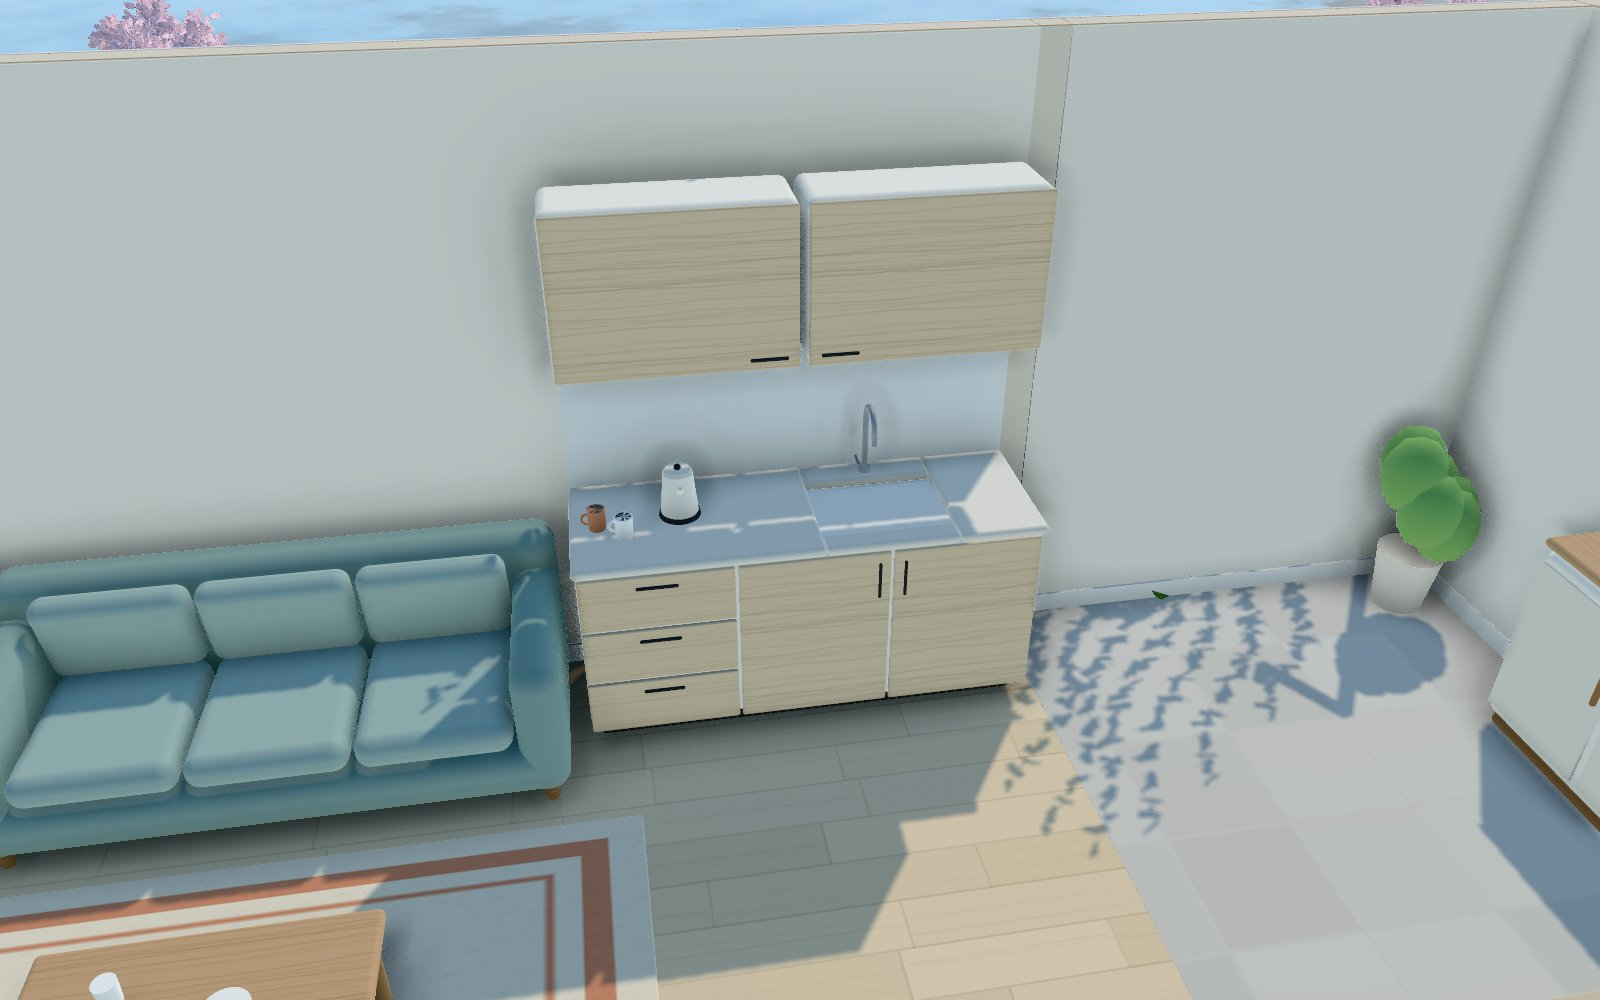
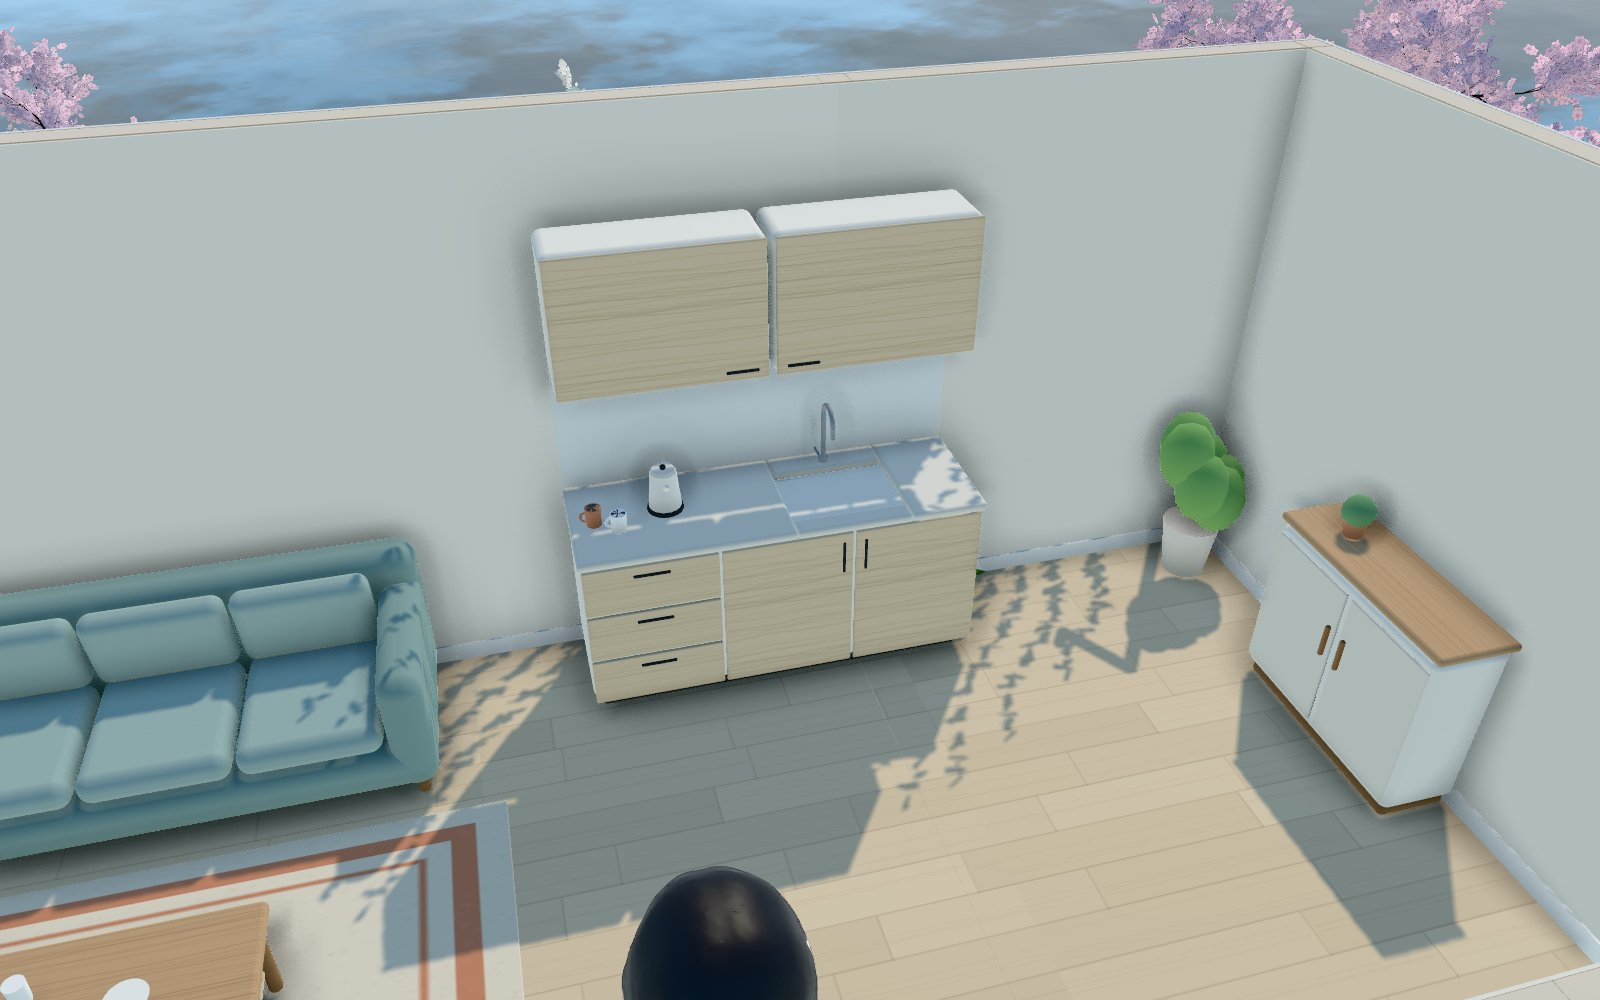
厨房角西移跨到玄关、玄关改木地板、入户门内侧加门垫
- 去掉「不挡玄关到客厅动线」的要求：单测只验证从入户门仍走得到沙发、电视前、卧室门
- 操作台西移 0.6 米（x 1.67～3.47），跨在玄关与客厅的分界上：中间不砌墙的房间合起来算一块摆放范围
  （scene/layout.ts placementBounds / openGroupOf），家具可以跨分界线，归属按中心点；有墙处照旧不能骑墙
- 玄关地面 stone → wood_light；地板纹理按世界坐标对齐，接缝处连续；开放边界处墙面漆不再留竖条
- 入户门内侧椰棕门垫，替换原玄关地毯
- 单测：跨开放边界摆放、有墙处不能骑墙；文档：美术方向、验收问题 C19、样张 B12/B14

Claude-Session: https://claude.ai/code/session_01DDdrfwh4h9RNrQwnt3CmwH

diff --git a/src/world/interiorDecor.ts b/src/world/interiorDecor.ts
@@ -36,6 +36,38 @@ function rugTexture(base: string, border: string): THREE.CanvasTexture {
   return t;
 }
 
+/** 门垫：椰棕色的粗织面（一道道横向的织纹 + 细碎纤维），外圈一道深色包边，中间一行浅色细条 */
+function doormatTexture(): THREE.CanvasTexture {
+  // 横边对应门垫的宽（沿门洞方向），竖边对应进深
+  const W = 384;
+  const H = 256;
+  const c = document.createElement('canvas');
+  c.width = W;
+  c.height = H;
+  const g = c.getContext('2d')!;
+  g.fillStyle = '#b48a5c';
+  g.fillRect(0, 0, W, H);
+  const r = rng(19);
+  for (let y = 0; y < H; y += 6) {
+    g.fillStyle = `rgba(${y % 12 ? '120,84,48' : '214,176,128'},0.35)`;
+    g.fillRect(0, y, W, 3);
+  }
+  for (let i = 0; i < 5000; i++) {
+    const k = r();
+    g.fillStyle = k < 0.5 ? 'rgba(90,60,34,0.25)' : 'rgba(232,200,150,0.22)';
+    g.fillRect(r() * W, r() * H, 1 + r() * 3, 1);
+  }
+  g.strokeStyle = '#5b4330';
+  g.lineWidth = 22;
+  g.strokeRect(11, 11, W - 22, H - 22);
+  g.fillStyle = 'rgba(240,222,190,0.75)';
+  g.fillRect(52, H / 2 - 5, W - 104, 10);
+  const t = new THREE.CanvasTexture(c);
+  t.colorSpace = THREE.SRGBColorSpace;
+  t.anisotropy = 4;
+  return t;
+}
+
 function artTexture(seed: number, colors: string[]): THREE.CanvasTexture {
   const c = document.createElement('canvas');
   c.width = 160;
@@ -102,8 +134,11 @@ export function buildInteriorDecor(cfg: RoomsConfig, items: FurnitureItem[]): In
       paintBySegment.set(seg.id, g);
       group.add(g);
     }
-    const lo = edge.a + T / 2;
-    const hi = edge.b - T / 2;
+    // 墙角处让出半个墙厚（对面那堵墙的位置）；那一头是不砌墙的开放边界（玄关 | 客厅）时不用让，漆接着刷过去
+    const solidAt = (along: number) =>
+      layout.segments.some((sg) => sg.orient !== edge.orient && Math.abs(sg.c - along) < 1e-6 && edge.c >= sg.a - 1e-6 && edge.c <= sg.b + 1e-6);
+    const lo = edge.a + (solidAt(edge.a) ? T / 2 : 0);
+    const hi = edge.b - (solidAt(edge.b) ? T / 2 : 0);
     const across = seg.c + edge.inside * (T / 2 + 0.004);
     for (const p of wallPieces(seg, T)) {
       const s = Math.max(p.s, lo);
@@ -148,9 +183,30 @@ export function buildInteriorDecor(cfg: RoomsConfig, items: FurnitureItem[]): In
   const chair = find('office_chair');
   if (chair) rug(chair.position, 1.5, 1.3, chair.rotation, 'study');
   const foyer = cfg.rooms.find((r) => r.id === 'foyer');
-  if (foyer) {
-    const b = normBounds(foyer);
-    rug([b.x0 + 0.75, (b.y0 + b.y1) / 2 + 1.0], 0.9, 1.5, 0, 'foyer');
+  // 入户门内侧一块门垫（宽比门洞多 0.2 米，进深 0.65 米，贴着门槛）
+  const entryRoom = cfg.rooms.find((r) => r.doors.some((d) => d.id === 'entry_door'));
+  const entryDoor = entryRoom?.doors.find((d) => d.id === 'entry_door');
+  if (entryRoom && entryDoor) {
+    const b = normBounds(entryRoom);
+    const T = layout.thickness;
+    const side = entryDoor.wall.slice(entryRoom.id.length + 1);
+    const depth = 0.65;
+    const width = entryDoor.width + 0.2;
+    const off = T / 2 + 0.02 + depth / 2;
+    const [cx, cy, rot] =
+      side === 'left'
+        ? [b.x0 + off, entryDoor.at[1], 90]
+        : side === 'right'
+          ? [b.x1 - off, entryDoor.at[1], 90]
+          : side === 'bottom'
+            ? [entryDoor.at[0], b.y0 + off, 0]
+            : [entryDoor.at[0], b.y1 - off, 0];
+    const mat = new THREE.Mesh(new RoundedBoxGeometry(width, 0.016, depth, 2, 0.007), new THREE.MeshStandardMaterial({ map: doormatTexture(), roughness: 1 }));
+    mat.position.copy(P(cx, 0.008, cy));
+    mat.rotation.y = (rot * Math.PI) / 180;
+    mat.receiveShadow = true;
+    mat.name = 'doormat';
+    group.add(mat);
   }
 
   // ───────── 窗帘（卫生间不挂） ─────────

diff --git a/src/scene/layout.ts b/src/scene/layout.ts
@@ -277,6 +277,59 @@ export function wallPieces(seg: WallSegment, thickness: number): WallPiece[] {
 }
 
 /** 全屋外接矩形（平面） */
+type Bounds = { x0: number; y0: number; x1: number; y1: number };
+
+/**
+ * 摆家具时可用的范围：房间之间那面墙标了 open（不砌墙，例如玄关和客厅）时，连通的几个房间合起来算一块。
+ * 只在合起来正好是一个矩形时合并（不规则的拼法仍按各自房间算）。返回 roomId 所在那一块的范围。
+ */
+export function placementBounds(cfg: RoomsConfig, roomId: string): Bounds | null {
+  const group = openGroupOf(cfg, roomId);
+  if (!group) return null;
+  const bs = group.map((id) => normBounds(cfg.rooms.find((r) => r.id === id)!));
+  const u: Bounds = { x0: Math.min(...bs.map((b) => b.x0)), y0: Math.min(...bs.map((b) => b.y0)), x1: Math.max(...bs.map((b) => b.x1)), y1: Math.max(...bs.map((b) => b.y1)) };
+  const area = bs.reduce((s, b) => s + (b.x1 - b.x0) * (b.y1 - b.y0), 0);
+  const rect = Math.abs(area - (u.x1 - u.x0) * (u.y1 - u.y0)) < 1e-6;
+  return rect ? u : normBounds(cfg.rooms.find((r) => r.id === roomId)!);
+}
+
+/** 和 roomId 之间有 open 墙相连的所有房间（含自己）；房间不存在返回 null */
+export function openGroupOf(cfg: RoomsConfig, roomId: string): string[] | null {
+  if (!cfg.rooms.some((r) => r.id === roomId)) return null;
+  const links = new Map<string, Set<string>>();
+  const link = (a: string, b: string) => {
+    if (!links.has(a)) links.set(a, new Set());
+    if (!links.has(b)) links.set(b, new Set());
+    links.get(a)!.add(b);
+    links.get(b)!.add(a);
+  };
+  const eps = 1e-6;
+  for (const room of cfg.rooms) {
+    const a = normBounds(room);
+    for (const w of room.walls ?? []) {
+      if (!w.open) continue;
+      const side = w.id.slice(room.id.length + 1) as Side;
+      for (const other of cfg.rooms) {
+        if (other === room) continue;
+        const b = normBounds(other);
+        const overlapY = Math.min(a.y1, b.y1) - Math.max(a.y0, b.y0) > eps;
+        const overlapX = Math.min(a.x1, b.x1) - Math.max(a.x0, b.x0) > eps;
+        if (
+          (side === 'right' && Math.abs(b.x0 - a.x1) < eps && overlapY) ||
+          (side === 'left' && Math.abs(b.x1 - a.x0) < eps && overlapY) ||
+          (side === 'top' && Math.abs(b.y0 - a.y1) < eps && overlapX) ||
+          (side === 'bottom' && Math.abs(b.y1 - a.y0) < eps && overlapX)
+        )
+          link(room.id, other.id);
+      }
+    }
+  }
+  const seen = new Set([roomId]);
+  const queue = [roomId];
+  while (queue.length) for (const n of links.get(queue.shift()!) ?? []) if (!seen.has(n)) (seen.add(n), queue.push(n));
+  return [...seen];
+}
+
 export function houseBounds(cfg: RoomsConfig): { x0: number; y0: number; x1: number; y1: number } {
   const bs = cfg.rooms.map(normBounds);
   return {

diff --git a/src/layout/layoutStore.ts b/src/layout/layoutStore.ts
@@ -5,7 +5,7 @@
 // 约束：整件家具必须落在同一个房间里（不骑墙、不堵在门洞里），不与别的家具重叠，不能压到人身上。
 
 import type { FurnitureItem, RoomsConfig, Vec2 } from '../config/types';
-import { footprint, normBounds, rotate2, DEFAULT_WALL_THICKNESS } from '../scene/layout';
+import { footprint, normBounds, placementBounds, rotate2, DEFAULT_WALL_THICKNESS } from '../scene/layout';
 
 export const LAYOUT_KEY = 'xiaoxiao-home.layout';
 /** 家具与墙面之间留的缝（米） */
@@ -86,15 +86,27 @@ export function rectHitsCircle(r: Rect, c: Vec2, radius: number): boolean {
   return Math.hypot(dx, dy) < radius - 1e-6;
 }
 
-/** 这块矩形完整落在哪个房间里（留出墙厚）；骑墙或出界返回 null */
+/**
+ * 这块矩形完整落在哪个房间里（留出墙厚）；骑墙或出界返回 null。
+ * 中间不砌墙（open）的几个房间合起来算一块（例如玄关 + 客厅）：可以跨过分界线摆，归属按中心点所在的房间。
+ */
 export function roomContaining(r: Rect, rooms: RoomsConfig): string | null {
   const inset = (rooms.wall_thickness ?? DEFAULT_WALL_THICKNESS) / 2 + WALL_GAP;
   const pts = footprint(r);
+  const inside = (b: { x0: number; y0: number; x1: number; y1: number }, p: Vec2) =>
+    p[0] >= b.x0 + inset - 1e-9 && p[0] <= b.x1 - inset + 1e-9 && p[1] >= b.y0 + inset - 1e-9 && p[1] <= b.y1 - inset + 1e-9;
   for (const room of rooms.rooms) {
     const b = normBounds(room);
-    if (pts.every((p) => p[0] >= b.x0 + inset - 1e-9 && p[0] <= b.x1 - inset + 1e-9 && p[1] >= b.y0 + inset - 1e-9 && p[1] <= b.y1 - inset + 1e-9)) return room.id;
+    if (pts.every((p) => inside(b, p))) return room.id;
   }
-  return null;
+  const c = r.position;
+  const home = rooms.rooms.find((room) => {
+    const b = normBounds(room);
+    return c[0] >= b.x0 && c[0] <= b.x1 && c[1] >= b.y0 && c[1] <= b.y1;
+  });
+  if (!home) return null;
+  const merged = placementBounds(rooms, home.id);
+  return merged && pts.every((p) => inside(merged, p)) ? home.id : null;
 }
 
 export class LayoutStore {

diff --git a/tests/nav.test.ts b/tests/nav.test.ts
@@ -86,21 +86,14 @@ describe('寻路', () => {
     assertClear(pf, res.path);
   });
 
-  it('厨房角（客厅南墙靠玄关一侧）不挡玄关到客厅的动线：从入户门到沙发、电视前、卧室门都不用绕', () => {
+  it('厨房角（客厅南墙、伸进玄关一段）：从入户门仍能走到沙发、电视前、卧室门，不穿家具', () => {
+    // 客户 2026-11-18 取消了「不挡玄关到客厅动线」的要求，这里只保证走得到
     const pf = make();
-    const k = item('kitchenette');
-    expect(k.room).toBe('living');
-    expect(k.size[0]).toBeCloseTo(1.8);
     const door: Vec2 = [0.4, 3.55];
     for (const goal of [approachOf('sofa'), [5.2, 2.95] as Vec2, [2.95, 3.5] as Vec2]) {
       const res = pf.findPath(door, goal);
       expect(res.ok, `到 ${goal}`).toBe(true);
-      if (!res.ok) continue;
-      assertClear(pf, res.path);
-      // 和没有厨房角时一样短（厨房角不在路上）
-      const without = createPathfinder(raw.rooms, raw.furniture.items.filter((i: { id: string }) => i.id !== 'kitchenette')).findPath(door, goal);
-      expect(without.ok).toBe(true);
-      if (without.ok) expect(pathLength(res.path)).toBeCloseTo(pathLength(without.path), 3);
+      if (res.ok) assertClear(pf, res.path);
     }
   });
 

diff --git a/src/config/validate.ts b/src/config/validate.ts
@@ -10,7 +10,7 @@ import {
   type RoomsConfig,
   type Vec2,
 } from './types';
-import { EPS, acrossOf, alongOf, allEdges, collectOpenings, footprint, normBounds, windowRange } from '../scene/layout';
+import { EPS, acrossOf, alongOf, allEdges, collectOpenings, footprint, normBounds, placementBounds, windowRange } from '../scene/layout';
 
 export interface ConfigIssue {
   file: string;
@@ -298,7 +298,8 @@ function validateFurniture(raw: unknown, rooms: RoomsConfig | null): ConfigIssue
       c.err(`${p}.room`, `未知房间「${it.room}」，可用：${rooms.rooms.map((r) => r.id).join(' / ')}`);
       return;
     }
-    const b = normBounds(room);
+    // 中间不砌墙（open）的房间合起来算一块：家具可以跨过分界线（例如厨房角从客厅伸进玄关）
+    const b = placementBounds(rooms, room.id) ?? normBounds(room);
     const pts = it.kind === 'window_spot' ? [it.position as Vec2] : footprint(it as never);
     const tol = 0.02;
     if (pts.some(([x, y]) => x < b.x0 - tol || x > b.x1 + tol || y < b.y0 - tol || y > b.y1 + tol)) {

diff --git a/tests/layoutStore.test.ts b/tests/layoutStore.test.ts
@@ -80,6 +80,17 @@ describe('布局：移动、旋转、联动组', () => {
     expect(s.tryMove('sofa', [5.3, 0.6], seated)).toBeNull();
   });
 
+  it('玄关和客厅之间不砌墙：家具可以跨过分界线摆，归属按中心点；有墙的地方照样不能骑墙', () => {
+    const { items, rooms } = fresh();
+    const k = items.find((i) => i.id === 'kitchenette')!;
+    const [x0, x1] = [k.position[0] - k.size[0] / 2, k.position[0] + k.size[0] / 2];
+    expect(x0 < 2.2 && x1 > 2.2).toBe(true); // 厨房角本身就跨在分界线上
+    expect(roomContaining(k, rooms)).toBe('living');
+    expect(roomContaining({ position: [1.9, 0.5], rotation: 0, size: [1.2, 0.5, 0.8] }, rooms)).toBe('foyer');
+    // 玄关 / 卫生间之间是实墙：跨过去不行
+    expect(roomContaining({ position: [1.0, 4.2], rotation: 0, size: [0.8, 0.6, 0.8] }, rooms)).toBeNull();
+  });
+
   it('可以挪到另一个房间，room 字段跟着变', () => {
     const { items, rooms } = fresh();
     const s = new LayoutStore(items, rooms);

diff --git a/src/scene/house.ts b/src/scene/house.ts
@@ -215,6 +215,8 @@ export function buildHouse(cfg: RoomsConfig): HouseView {
     const tex = floorTexture(room.floor).clone();
     tex.needsUpdate = true;
     tex.repeat.set(w / FLOOR_TEXTURE_METERS, d / FLOOR_TEXTURE_METERS);
+    // 纹理按世界坐标对齐：相邻两间铺同一种地板（玄关和客厅）时，地板缝在分界处接得上，看起来是一整片
+    tex.offset.set(b.x0 / FLOOR_TEXTURE_METERS, b.y0 / FLOOR_TEXTURE_METERS);
     const floor = new THREE.Mesh(new THREE.BoxGeometry(w, 0.06, d), soft(0xffffff, { map: tex, roughness: ROUGH.floor }));
     floor.position.copy(P((b.x0 + b.x1) / 2, -0.03, (b.y0 + b.y1) / 2));
     floor.receiveShadow = true;

diff --git a/docs/验收问题.md b/docs/验收问题.md
@@ -77,4 +77,5 @@
 | C16 | 美术方向 v0.1 的反馈（2026-11-18 客户提出）：①风格**更写实**一点；②相机要能**拉得更远**；③树挡住时要**像墙一样透明** | C15；PRD F-01 相机范围；接口约定 §4.1b `camera.json` | ①写实版 v0.2：物理天空 + 由天空生成的环境光照、湖面实时倒影、有枝干和叶片的树（开源生成器，MIT）、草丛、带凹凸的灰泥 / 石材 / 屋瓦 / 木纹贴图；色调映射保持 Neutral（AgX 对比过，整体发白）；黄昏和夜里加泛光。②`maxDistance` 24 → 45 米、最大俯仰 70° → 76°；> 23 米屋顶盖上、< 20 米掀开（短动画，不停在半透明）；屋顶盖着时墙不剖开。③屋顶掀开看屋里时，视线（到她、到各房间）穿过树冠的树变成稀疏网点（覆盖率约 18%），转开后恢复；树因此可以离房子近一些。**同时默认的两件事**：移轴（微缩感）主场景不用，只留在样张页；客厅南墙暂不开窗（长椅 + 爬藤）。性能：整景约 44 万三角面（倒影再画一遍），低帧率时依次关倒影 → 环境光遮蔽 → 泛光；GTX 1650 真机帧率待测 | 待验收 |
 | C17 | 房子外墙及周边环境按客户给的两张参考图改（2026-11-18 客户提出；两张图是同一类房子的不同视角）：主要改**外墙、屋顶、房边绿植、樱花树** | C15、C16；美术方向 §4.1 | 外墙改白色细抹灰 + 矮的浅灰勒脚，去掉石材墙基、原木角柱、檐口线、烟囱；屋顶改深炭灰立边咬合金属屋面（薄板、细封檐、檐下木椽）；门窗外侧深灰细框，入户门改深色竖向木板门 + 黑框壁灯 + 两级石阶。房边：樱花三棵（门边大的一棵）+ 开白花的小树三棵；墙根绣球、门边 / 南墙 / 阳台外三丛竹子、芒草、雏菊、南墙爬藤；小路铺踏步石，门前两座、阳台外一座石灯笼。白天太阳改从西南来（南墙、西墙受光，樱花的影子落在墙上）。**没动的**：参考图里的玻璃幕墙、木平台、大窗（要改户型）；客厅南墙仍不开窗。样张 `docs/art/concept/B8`、`B9`。同日客户要求「再细化」：绣球花头改成一朵朵四瓣小花拼成的花球、叶子加锯齿和叶脉；芒草改成真实几何的拱形叶 + 蓬松花穗；竹竿加竹节、竹叶下垂；草地加密连成一片；小圆球野花改成五瓣小花；樱花花枝加密、树下落花瓣。近景 `C1`、`C2` | 待验收 |
 | C18 | ①核对屋外视角的门、窗、阳台与房间布局是否对应；②房屋外墙和屋顶过于简陋，要美化；③客厅靠玄关一侧的墙面加一个厨房角：1.8 米操作台、水槽、两格吊柜，台面摆水壶和两只杯子，不做灶、不明火、不排烟，不挡玄关到客厅的动线（2026-11-18 客户提出） | C11 户型；美术方向 §4 | ①逐个核对（核对表见 `docs/art/美术方向.md` §8）：位置全部对应；修了三处——窗棂从屋外看是木色（改深灰，和外框一致）、阳台门从屋外看是空洞（补一扇拉开状态的推拉玻璃扇）、北面一棵大树正好挡在卧室窗前（加规则：大树离门窗正前方 3.4 米以上）。②山墙改木腰线 + 竖向木板压条、木博风板、檩条头；南坡两扇天窗；檐沟 + 四角落水管；入户雨棚；南墙格栅 + 两盏筒灯；北墙窗下花箱。③厨房角放在客厅南墙西头（x 2.27～4.07，紧挨玄关）：`furniture.json` 新增固定件 `kitchenette`（不可拖，占地照常挡人和别的家具）；为让出 1.8 米，沙发、茶几、电视整体东移 0.25 米（x 4.9 → 5.2，旧的布局存档会因默认布局变化自动作废）；单测验证从入户门到沙发、电视前、卧室门的路线和没有厨房角时一样长。原来客厅西南角的装饰绿植让位。样张 `B8～B13` | 待验收 |
+| C19 | 厨房角细调（2026-11-18 客户提出）：①去掉「不挡玄关到客厅动线」的要求；②操作台往西（靠入户门方向）移一点；③玄关与客厅地板颜色一致；④门口放一块地毯 | C11（玄关石材地面、家具不能骑在玄关与客厅分界线上）、C18 | ①单测改为只验证从入户门仍能走到沙发、电视前、卧室门（不再要求路线和没有厨房角时一样短）。②操作台西移 0.6 米到 x 1.67～3.47，跨在玄关与客厅的分界上：中间不砌墙（`open`）的房间合起来算一块摆放范围（`placementBounds`），家具可以跨过分界线，归属按中心点所在的房间；有墙的地方照旧不能骑墙（单测覆盖）。这一条也解除了 C11 的已知限制「家具不能骑在玄关与客厅的分界线上」。③`rooms.json` 玄关地面 `stone` → `wood_light`；地板纹理按世界坐标对齐，两间接缝处地板缝连续；墙面漆在开放边界处不再留一条没刷漆的竖条。④入户门内侧一块椰棕门垫，替换原来玄关中间那块地毯。沙发、茶几、电视位置不变（仍在 x 5.2）。样张 `B12`、`B14` | 待验收 |
 | C3 | `camera.json` 的 `target` 与方位角的坐标含义文档未写明 | — | `target = [平面 x, 高度, 平面 y]`（米）；`startAzimuthDeg` 为相机相对目标点在平面图上的方位，从 +x 逆时针计（225° = 左下方，看向右上）；`*PolarDeg` 为与竖直向上方向的夹角 | 执行者约定 |

diff --git a/docs/art/美术方向.md b/docs/art/美术方向.md
@@ -9,7 +9,7 @@
 
 ![总览](concept/overview.jpg)
 
-上排：西面入户门一侧、南墙、东面阳台；下排：北墙窗户、客厅厨房角、白天全岛。
+上排：西面入户门一侧、南墙、东面阳台；下排：北墙窗户、客厅厨房角、白天全岛。玄关门垫见 `B14`。
 
 ---
 
@@ -70,7 +70,8 @@
 | 软装 | 每个房间至少一件「有颜色的软东西」：地毯、窗帘、绿植、挂画 |
 | 灯 | 夜里每个房间至少一处暖光（约 2700K），灯罩发光、光照有衰减 |
 | 窗 | 夜里从屋外看窗户透出暖光 |
-| 厨房角（C18） | 客厅南墙西头（靠玄关一侧）：1.8 米操作台（浅木门板、三层抽屉、奶白台面）+ 不锈钢水槽和鹅颈龙头 + 一条浅色瓷砖防溅 + 两格吊柜；台面上一只电水壶、两只杯子。**不做灶、不明火、不排烟**。是固定件（`furniture.json` 里 `kitchenette`，不可拖），占地挡人走路，但不在玄关到客厅的动线上（单测验证）；为让出位置，沙发、茶几、电视整体东移 0.25 米 |
+| 厨房角（C18、C19） | 客厅南墙西头、伸进玄关一段（x 1.67～3.47，靠近入户门；玄关和客厅之间不砌墙，家具可以跨分界线摆）：1.8 米操作台（浅木门板、三层抽屉、奶白台面）+ 不锈钢水槽和鹅颈龙头 + 一条浅色瓷砖防溅 + 两格吊柜；台面上一只电水壶、两只杯子。**不做灶、不明火、不排烟**。是固定件（`furniture.json` 里 `kitchenette`，不可拖），占地照常挡人走路 |
+| 玄关（C19） | 地板和客厅一样（浅色木地板，纹理按世界坐标对齐，分界处看不出缝）；入户门内侧一块椰棕门垫（深色包边、中间一道浅色细条），替换原来玄关中间那块地毯 |
 
 色值在 `src/world/palette.ts` 的 `PALETTE.rooms`。以后墙色和软装清单要进配置（`rooms.json` / `furniture.json`）。
 
